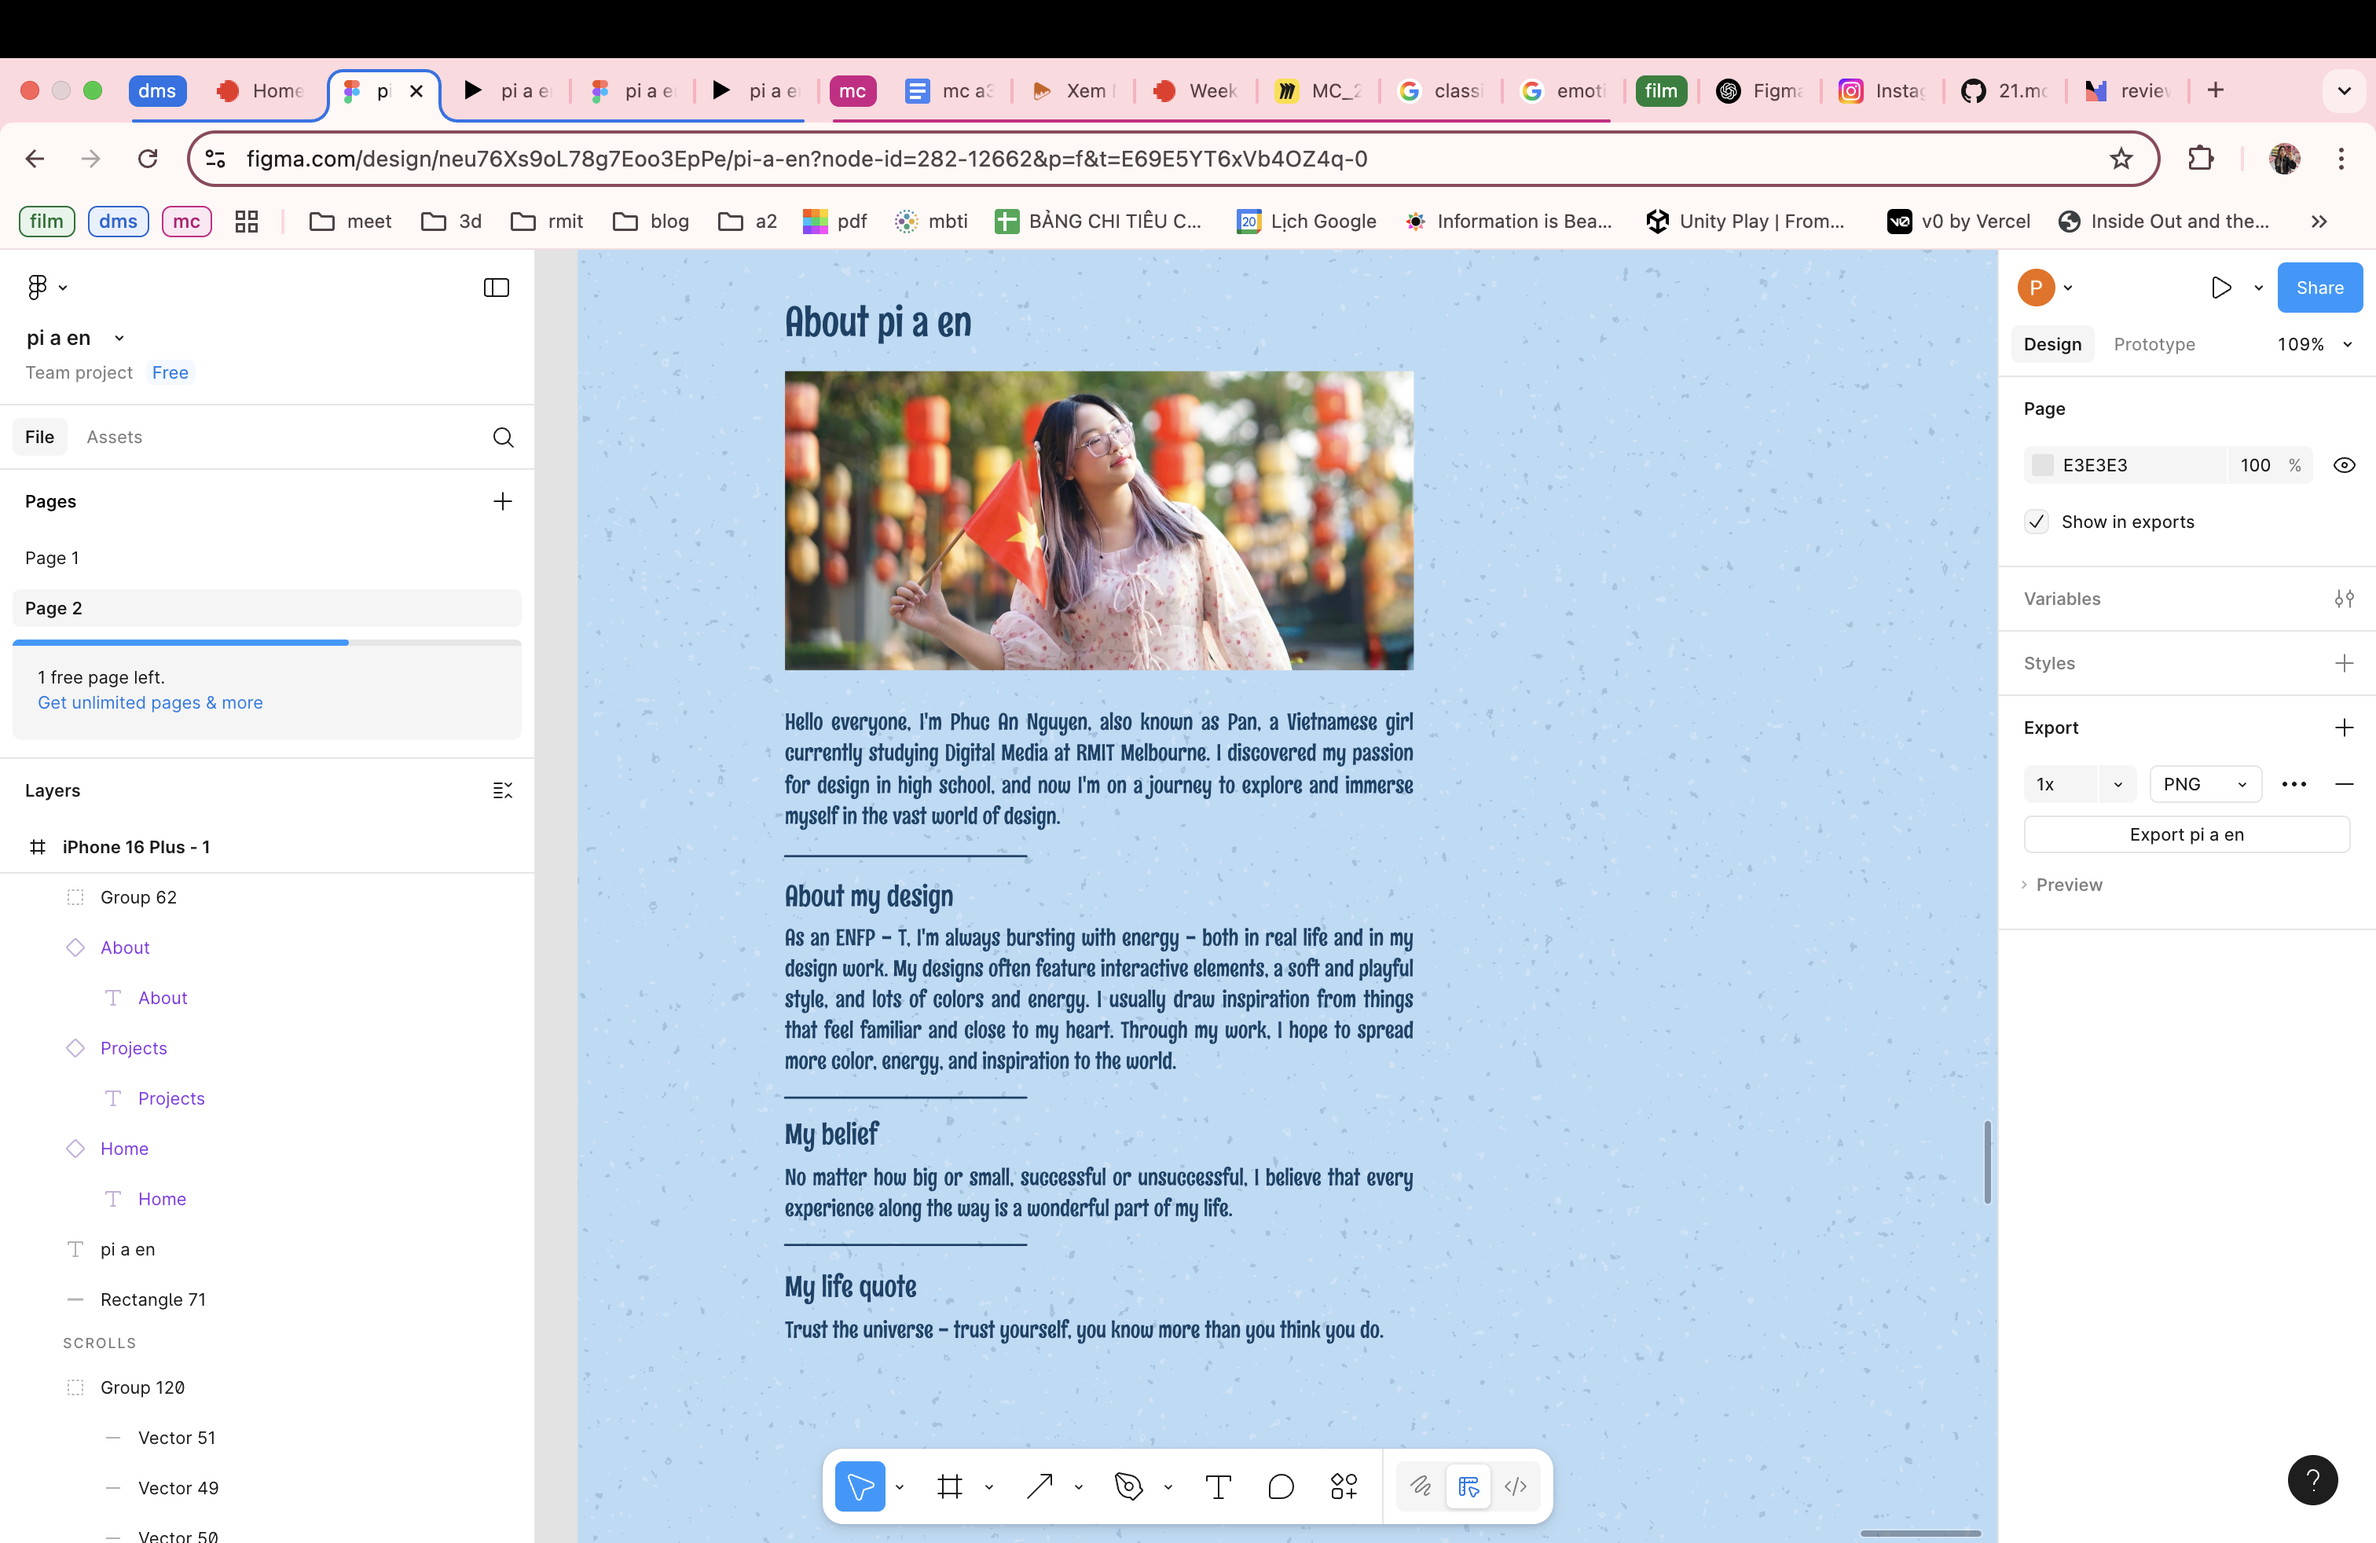
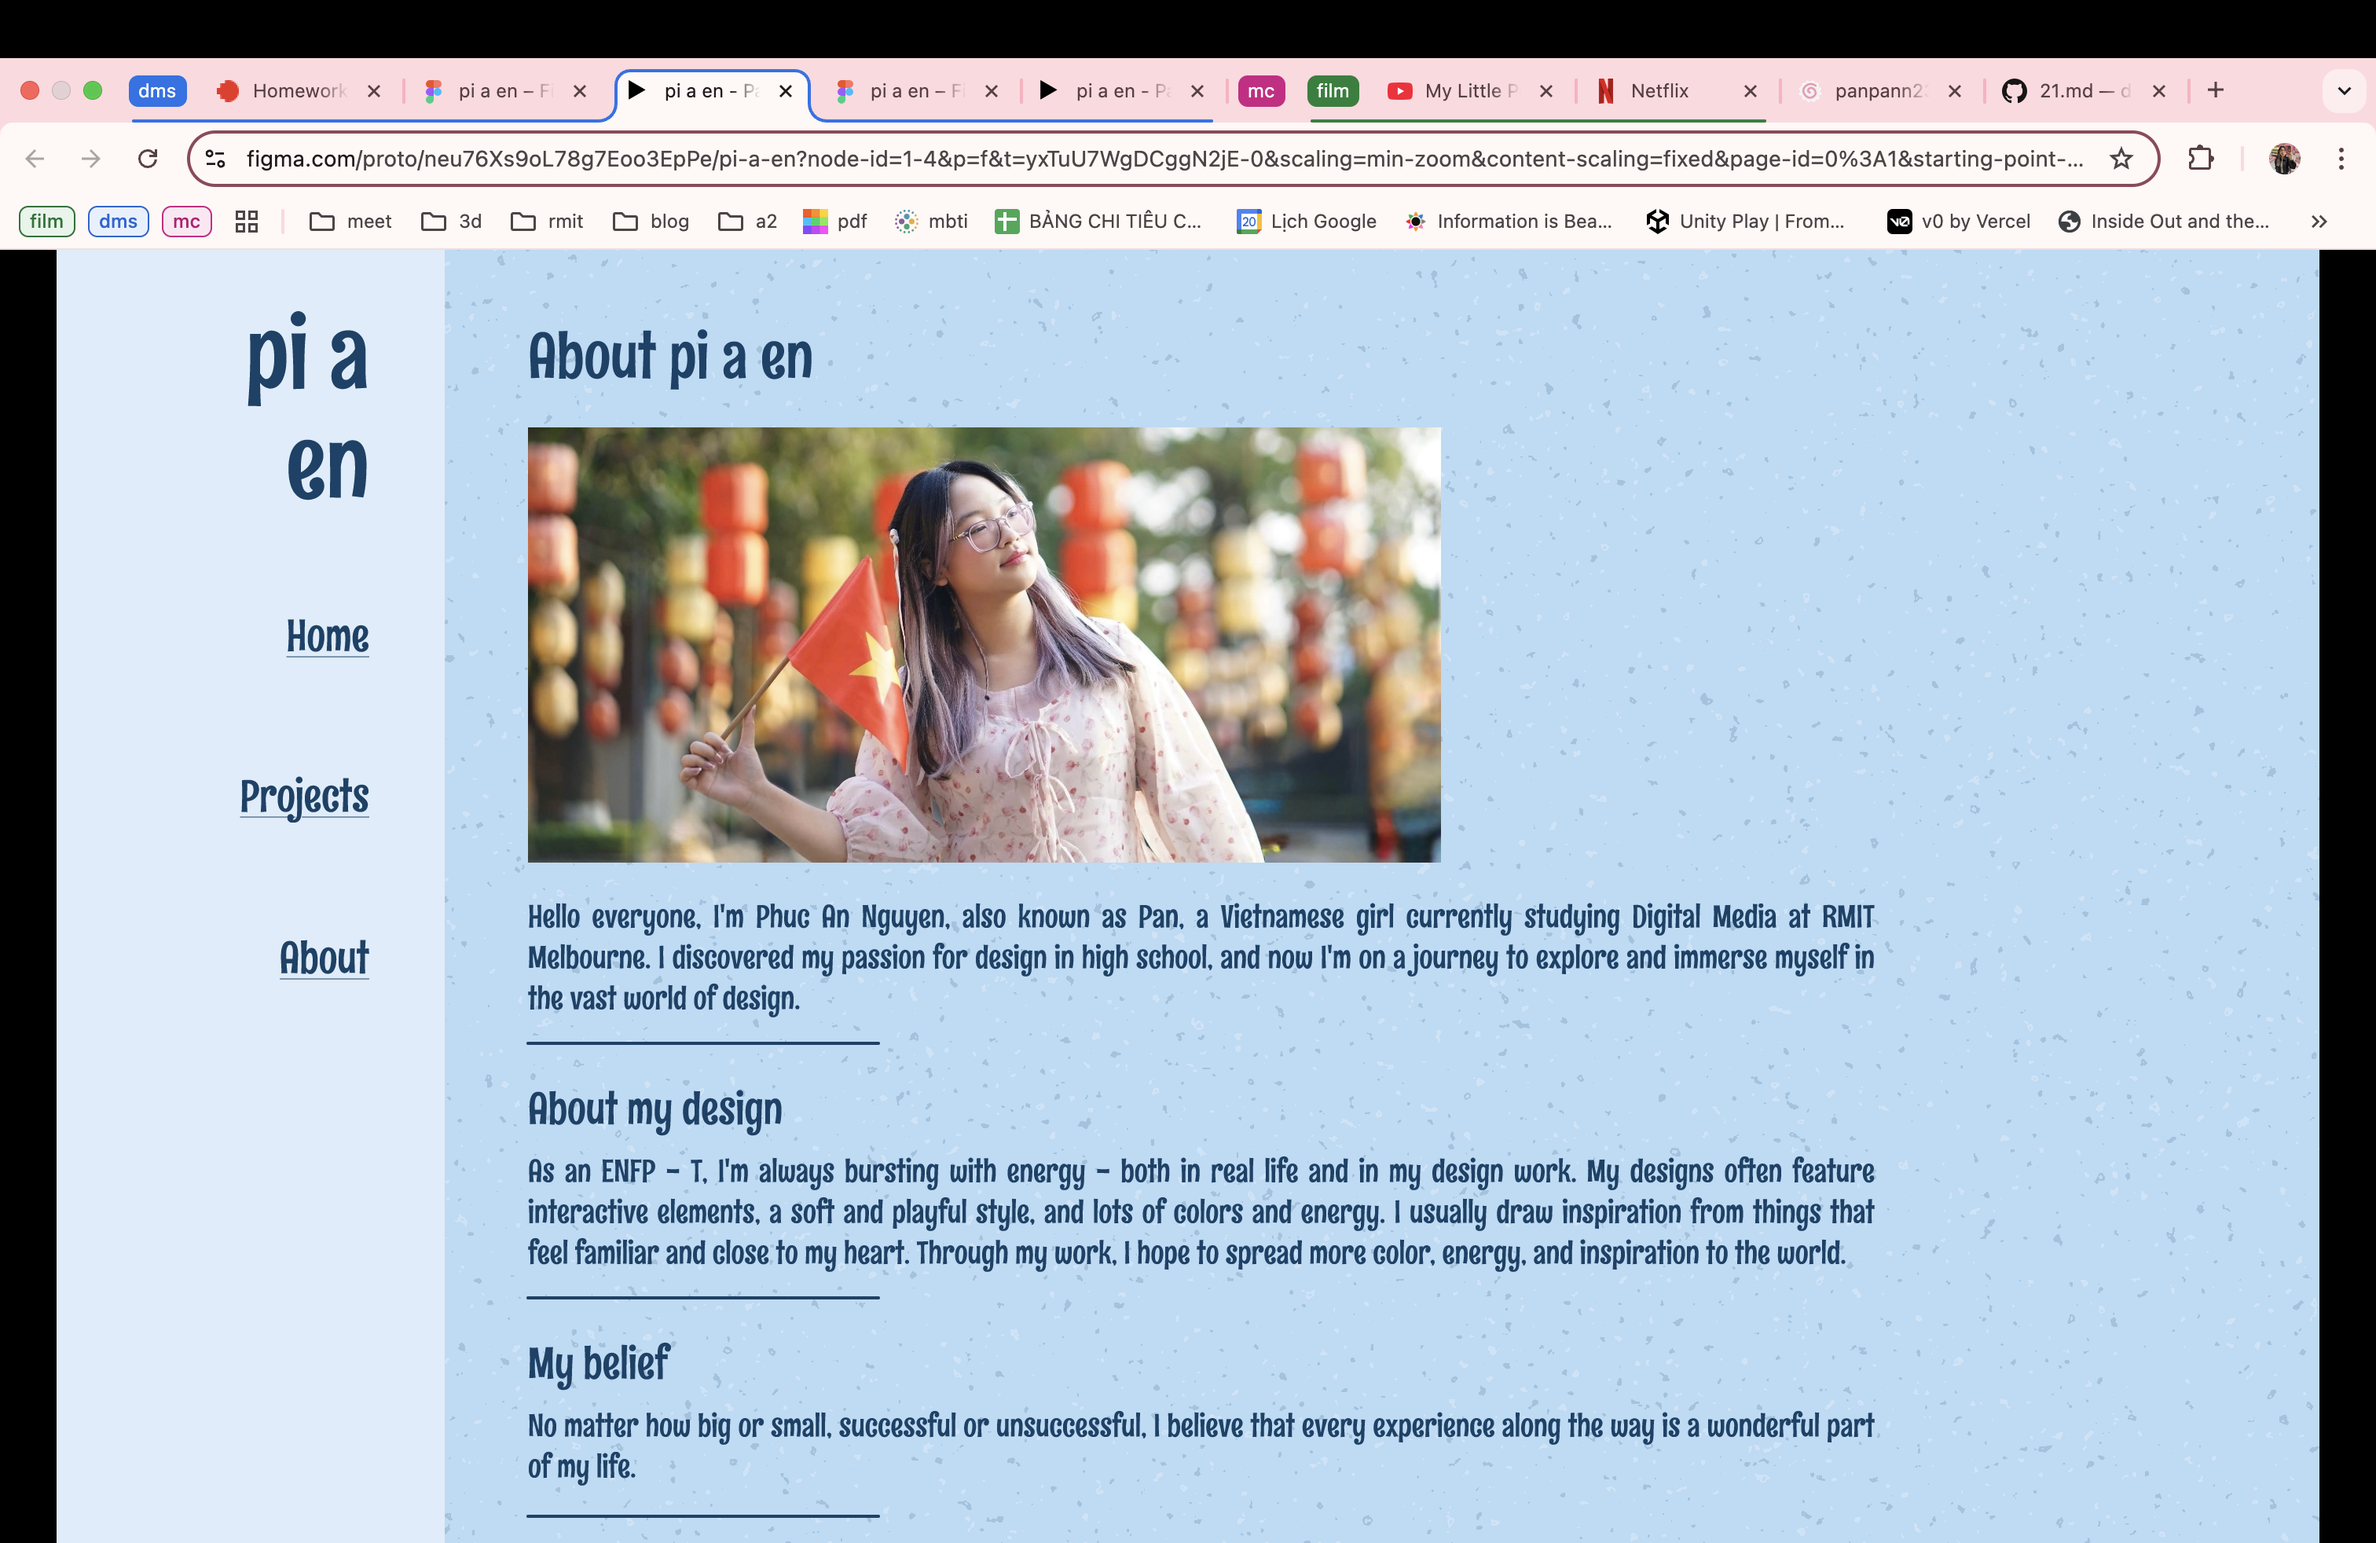
hih

diff --git a/posts/21.md b/posts/21.md
@@ -33,5 +33,7 @@ I was concerning about how to build the layout of the designer bio part at the p
 I added an opening "mind - map" - talking about myself but with a simple word which helps users to understand but not TRULY understand about me, to make them feel curious and want to explore my web page more. And I think it is a good intention to the webpage with something that represent me.
 
 ![week 11 ses 2](homeworktasks/week11/w11s2-1.png)
+![week 11 ses 2](homeworktasks/week11/w11s2-4.png)
+
 
 From the original webframe version, I change the side bar from left to top for the mobile layout, also increase/decrease the size of elements to make the web be friendly in using. Luckily, I can implemented all I wanted and those all work well!
